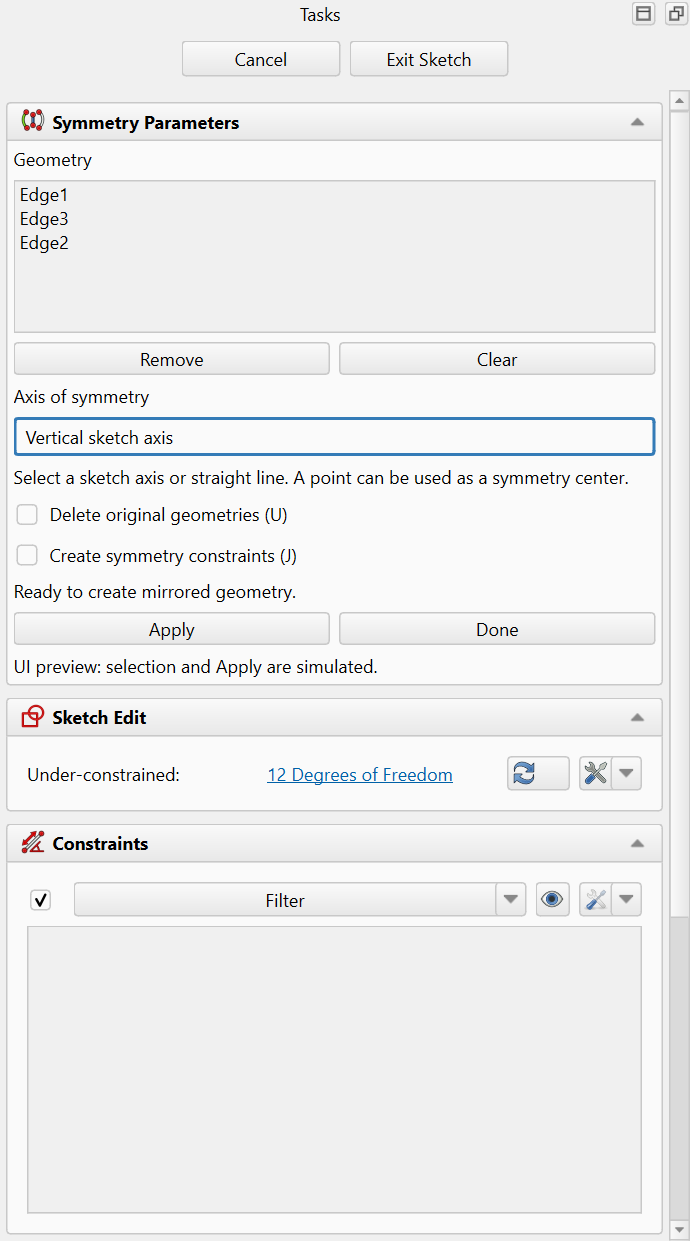
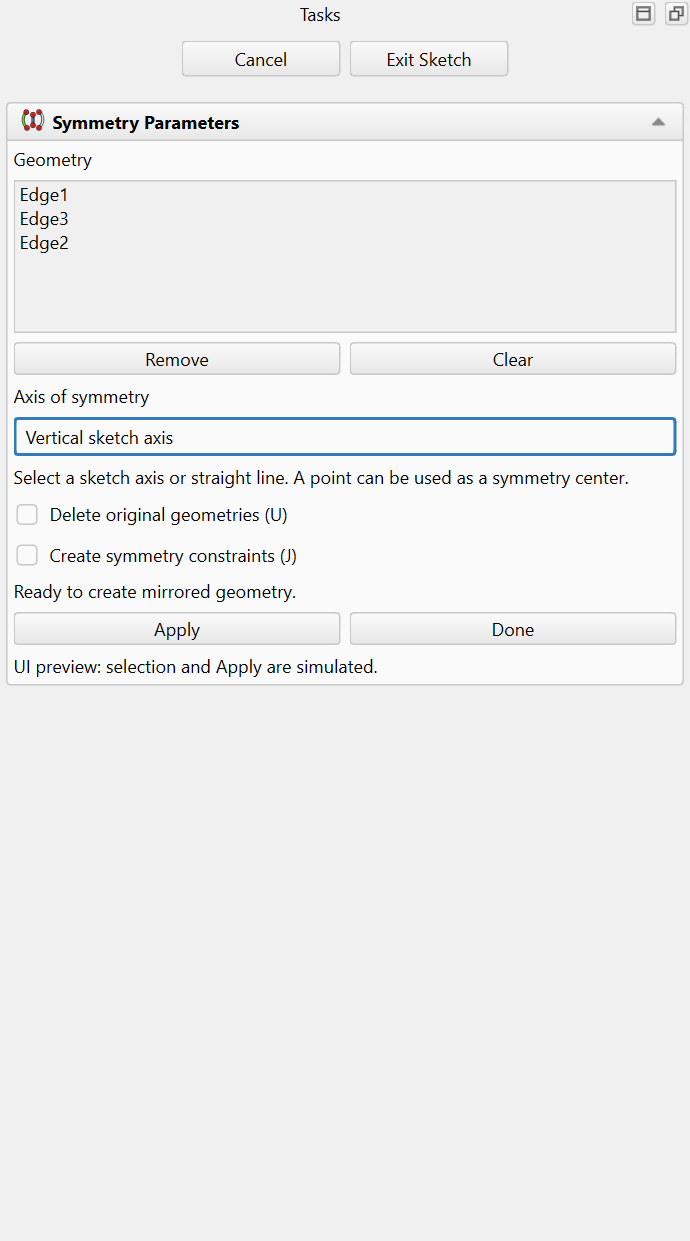
Preview dedicated symmetry task with sketch lists hidden

diff --git a/ai-instructions/evidence/sketch-symmetry-preview-20261123/symmetry_ui.py b/ai-instructions/evidence/sketch-symmetry-preview-20261123/symmetry_ui.py
@@ -73,4 +73,27 @@ def install(dock):
     native=next(w for w in dock.findChildren(QtWidgets.QWidget) if w.metaObject().className().endswith('SketcherToolDefaultWidget'))
     parent=native.parentWidget();layout=parent.layout();native.hide()
     panel=SymmetryPanel(parent);layout.addWidget(panel);panel.show()
+
+    task_names = ('TaskSketcherMessages', 'TaskSketcherConstraints',
+                  'TaskSketcherElements', 'TaskSketcherSolverAdvanced')
+    panel.hidden_sections = [(w, not w.isHidden()) for w in dock.findChildren(QtWidgets.QWidget)
+                             if any(w.metaObject().className().endswith(n) for n in task_names)]
+    for widget, was_visible in panel.hidden_sections:
+        widget.hide()
+    panel.restored = False
+    def restore():
+        if panel.restored:
+            return
+        panel.restored = True
+        for widget, was_visible in panel.hidden_sections:
+            widget.setVisible(was_visible)
+        timer.stop()
+    timer = QtCore.QTimer(dock)
+    timer.setInterval(50)
+    timer.timeout.connect(lambda: restore() if not panel.isVisible() else None)
+    panel.done.clicked.connect(restore)
+    cancel = dock.findChild(QtWidgets.QPushButton, 'SketchCancelAction')
+    if cancel:
+        cancel.clicked.connect(restore)
+    timer.start()
     return panel

diff --git a/ai-instructions/evidence/sketch-symmetry-preview-20261123/README.md b/ai-instructions/evidence/sketch-symmetry-preview-20261123/README.md
@@ -7,6 +7,9 @@ Current native Sketcher_Symmetry (Mirror) requires geometry preselection and use
 the viewport axis/point pick to commit. Its tool panel exposes Delete original
 geometries and Create symmetry constraints. Proposed workflow:
 
+- Show a dedicated symmetry task: temporarily hide Sketch Edit, Constraints,
+  Elements/lines and advanced solver sections. Restore prior section visibility
+  when leaving symmetry. Keep viewport geometry visible for selection.
 - Open with no preselection or prefill eligible selected internal sketch geometry.
 - Five-row scrollable Geometry list; activate it to collect, click adds once,
   Shift-click removes; retain Delete/Remove/Clear, without Select/Confirm toggles.
@@ -36,14 +39,14 @@ The prototype replaces the symmetry tool widget in an isolated actual FreeCAD
 sketch editor. Its list/axis and Apply interactions are simulated; no mirrored
 geometry is committed. Native fixture geometry count stays unchanged in baseline
 and candidate. Checks confirm empty/invalid disabling, duplicate-add suppression,
-Shift removal, recovery, post-Apply reset and Done returning to sketch editing without a commit. These are UI checks,
+Shift removal, recovery, post-Apply reset and Done returning to sketch editing without a commit. Normal sections are verified hidden during symmetry and restored after Done. These are UI checks,
 not proof of working command integration, picking, geometry, Undo or persistence.
 No production source or installed payload changed. The simulation footer is preview
 annotation, not a proposed product control.
 
-Companion session c5ec4798c9a1 supersedes f6f16a2395cf with Apply/Done clarification; adapter baseline
+Companion session aef4e2a28b5b supersedes c5ec4798c9a1 with the dedicated task layout; adapter baseline
 be7bf70c1f925f182d1eb8fc6c90b3109d049cb4; fingerprint
-17b71b7da4abd8b94bce4c168104489ddc0274c7a33987948ef7f8810aba37fd.
+8cbe727921cf6509587d4c22e9fdc7286e6f428349daf9cc5d13b53068f9fd96.
 Only symmetry_ui.py changed in candidate. Preview valid, scope violations empty.
 Owner preview approval is pending; tool approval state was not modified.
 

diff --git a/ai-instructions/WORK_STATE.md b/ai-instructions/WORK_STATE.md
@@ -6,7 +6,9 @@ Owner requests Geometry list, single-line symmetry-axis selection and Apply with
 sketch editing. Isolated native-widget prototype retains native symmetry options
 and Cancel/Exit Sketch. Owner clarified: Apply stays open, clears geometry and keeps
 the axis; Done closes symmetry without applying pending inputs. Revised preview
-awaits approval. No production or installed change.
+awaits approval. Dedicated symmetry task hides Sketch Edit, Constraints and Elements
+while active, restoring prior visibility on exit. Native prototype checks passed.
+No production or installed change.
 See [direct preview and scope](evidence/sketch-symmetry-preview-20261123/README.md).
 
 ## Feature click/Shift-click selection installed - November 23, 2026

diff --git a/ai-instructions/ui-ux-specs/TASK_PANEL.md b/ai-instructions/ui-ux-specs/TASK_PANEL.md
@@ -1361,5 +1361,8 @@ click/Shift collection, native axis/line/point support, highlighted invalid-inpu
 feedback, native existing symmetry options and Apply-only creation. Owner clarified:
 Apply stays open, clearing geometry while retaining the axis; adjacent Done closes
 symmetry without applying pending inputs and preserves previously applied sets.
+Owner further requests a dedicated symmetry task: hide ordinary Sketch Edit,
+Constraints, Elements/lines and advanced solver panels while active; restore their
+prior visibility on leaving symmetry. Keep viewport geometry selectable.
 Cancel/Exit Sketch retain their existing roles. Implementation awaits approval of
 the [native-widget preview](../evidence/sketch-symmetry-preview-20261123/README.md).
